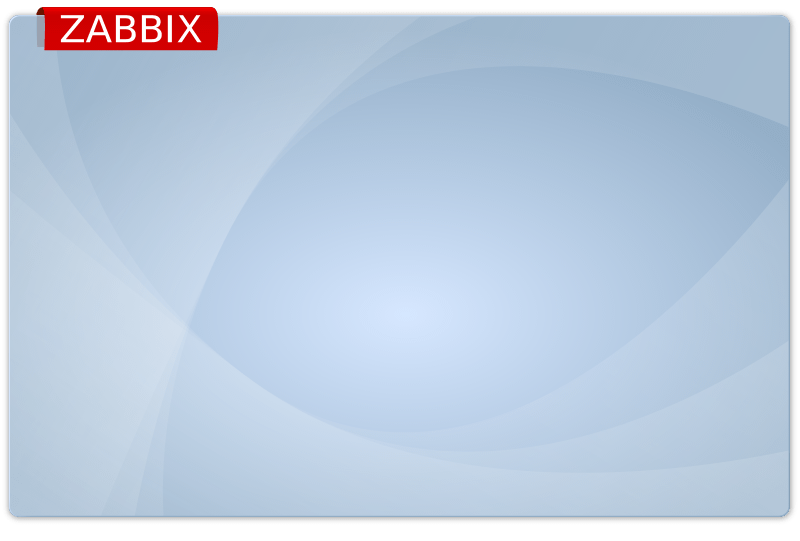
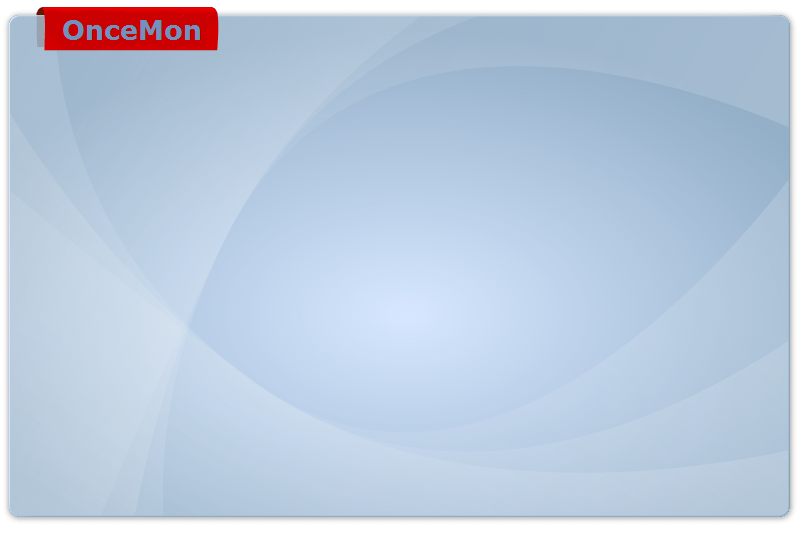
Replace the setup pic and login pic; Replace the www.zabbix.com; next will complete the code internationalization

Changed region(s): [[0.0625, 0.0296, 0.25, 0.0887]]

diff --git a/include/page_header.php b/include/page_header.php
@@ -200,9 +200,9 @@ if (defined('ZBX_PAGE_NO_HEADER')) {
 }
 
 if (!defined('ZBX_PAGE_NO_MENU')) {
-	$help = new CLink(_('Help'), 'http://www.zabbix.com/documentation/', 'small_font', null, 'nosid');
+	$help = new CLink(_('Help'), 'http://www.iscas.ac.cn/', 'small_font', null, 'nosid');
 	$help->setTarget('_blank');
-	$support = new CLink(_('Get support'), 'http://www.zabbix.com/support.php', 'small_font', null, 'nosid');
+	$support = new CLink(_('Get support'), 'http://www.iscas.ac.cn/', 'small_font', null, 'nosid');
 	$support->setTarget('_blank');
 
 	$printview = new CLink(_('Print'), '', 'small_font print-link', null, 'nosid');
@@ -239,7 +239,7 @@ if (!defined('ZBX_PAGE_NO_MENU')) {
 		array_push($page_header_r_col, $logout);
 	}
 
-	$logo = new CLink(new CDiv(SPACE, 'zabbix_logo'), 'http://www.zabbix.com/', 'image', null, 'nosid');
+	$logo = new CLink(new CDiv(SPACE, 'zabbix_logo'), 'http://www.iscas.ac.cn/', 'image', null, 'nosid');
 	$logo->setTarget('_blank');
 
 	$top_page_row = array(

diff --git a/include/classes/items/CHelpItems.php b/include/classes/items/CHelpItems.php
@@ -174,7 +174,7 @@ class CHelpItems {
 				),
 				array(
 					'key' => 'system.hostname[<type>]',
-					'description' => _('Returns hostname (or NetBIOS name (by default) on Windows). String value. Example of returned value: www.zabbix.com')
+					'description' => _('Returns hostname (or NetBIOS name (by default) on Windows). String value. Example of returned value: www.iscas.ac.cn')
 				),
 				array(
 					'key' => 'system.hw.chassis[<info>]',
@@ -436,7 +436,7 @@ class CHelpItems {
 				),
 				array(
 					'key' => 'system.hostname[<type>]',
-					'description' => _('Returns hostname (or NetBIOS name (by default) on Windows). String value. Example of returned value: www.zabbix.com')
+					'description' => _('Returns hostname (or NetBIOS name (by default) on Windows). String value. Example of returned value: www.iscas.ac.cn')
 				),
 				array(
 					'key' => 'system.hw.chassis[<info>]',

diff --git a/include/defines.inc.php b/include/defines.inc.php
@@ -18,12 +18,12 @@
 ** Foundation, Inc., 51 Franklin Street, Fifth Floor, Boston, MA  02110-1301, USA.
 **/
 
-define('ZABBIX_VERSION',     '2.2.8');
-define('ZABBIX_API_VERSION', '2.2.8');
+define('ZABBIX_VERSION',     '0.0.1');
+define('ZABBIX_API_VERSION', '0.0.1');
 define('ZABBIX_DB_VERSION',	 2020000);
 
-define('ZABBIX_COPYRIGHT_FROM', '2001');
-define('ZABBIX_COPYRIGHT_TO',   '2014');
+define('ZABBIX_COPYRIGHT_FROM', '2014');
+define('ZABBIX_COPYRIGHT_TO',   '2015');
 
 define('ZBX_LOGIN_ATTEMPTS',	5);
 define('ZBX_LOGIN_BLOCK',		30); // sec
@@ -904,7 +904,7 @@ define('THEME_DEFAULT', 'default');
 // the default theme
 define('ZBX_DEFAULT_THEME', 'originalblue');
 
-define('ZABBIX_HOMEPAGE', 'http://www.zabbix.com');
+define('ZABBIX_HOMEPAGE', 'http://www.iscas.ac.cn');
 
 // non translatable date formats
 define('TIMESTAMP_FORMAT', 'YmdHis');

diff --git a/include/views/general.browserwarning.php b/include/views/general.browserwarning.php
@@ -57,7 +57,7 @@
 						New browsers usually come with support for new technologies, increasing web page speed, better privacy settings and so on. They also resolve security and functional issues.
 					</div>
 					<div style="position: absolute; top: 420px; left: 23px;" class="browserwarningCopyright">
-						<a href="http://www.zabbix.com"><?php echo _s('Zabbix %1$s Copyright %2$s-%3$s by Zabbix SIA',
+						<a href="http://www.iscas.ac.cn"><?php echo _s('Zabbix %1$s Copyright %2$s-%3$s by Zabbix SIA',
 							ZABBIX_VERSION, ZABBIX_COPYRIGHT_FROM, ZABBIX_COPYRIGHT_TO); ?></a>
 					</div>
 					<div style="position: absolute; top: 400px; left: 400px;" class="browserwarningLink"><a href="index.php" onClick="javascript: document.cookie='browserwarning_ignore=yes';">Continue despite this warning</a> &raquo;</div>

diff --git a/chart5.php b/chart5.php
@@ -194,7 +194,7 @@ imageText($im, 8, 0, $shiftX + 9, $sizeY + $shiftYup + 15 * 1 + 41, $black, _('O
 imagefilledrectangle($im, $shiftX, $sizeY + $shiftYup + 34 + 15 * 2, $shiftX + 5, $sizeY + $shiftYup + 30 + 9 + 15 * 2, $darkred);
 imagerectangle($im, $shiftX, $sizeY + $shiftYup + 34 + 15 * 2, $shiftX + 5, $sizeY + $shiftYup + 30 + 9 + 15 * 2, $black);
 imageText($im, 8, 0, $shiftX + 9, $sizeY + $shiftYup + 15 * 2 + 41, $black, _('PROBLEM').' (%)');
-imagestringup($im, 0, imagesx($im) - 10, imagesy($im) - 50, 'http://www.zabbix.com', $gray);
+imagestringup($im, 0, imagesx($im) - 10, imagesy($im) - 50, 'http://www.iscas.ac.cn', $gray);
 
 $str = sprintf('%0.2f', microtime(true) - $start_time);
 $str = _s('Generated in %s sec', $str);

diff --git a/include/setup.inc.php b/include/setup.inc.php
@@ -93,10 +93,10 @@ class CSetupWizard extends CForm {
 		$left = new CDiv(null, 'left');
 		$left->addItem(new CDiv($this->getList(), 'left_menu'));
 
-		$link1 = new CLink('www.zabbix.com', 'http://www.zabbix.com/', null, null, true);
+		$link1 = new CLink('www.iscas.ac.cn', 'http://www.iscas.ac.cn/', null, null, true);
 		$link1->setAttribute('target', '_blank');
 
-		$link2 = new CLink('GPL v2', 'http://www.zabbix.com/license.php', null, null, true);
+		$link2 = new CLink('GPL v2', 'http://www.iscas.ac.cn/', null, null, true);
 		$link2->setAttribute('target', '_blank');
 
 		$licence = new CDiv(array($link1, BR(), ' Licensed under ', $link2), 'setup_wizard_licence');

diff --git a/include/views/general.login.php b/include/views/general.login.php
@@ -35,9 +35,9 @@ require_once dirname(__FILE__).'/../page_header.php';
 			<div style="position: relative; color: #FFF; height: 100%;">
 				<!-- Help & Support -->
 				<div style="position: absolute; top: 0px; right: 10px;">
-					<a class="highlight" href="http://www.zabbix.com/documentation"><?php echo _('Help'); ?></a>
+					<a class="highlight" href="http://www.iscas.ac.cn/"><?php echo _('Help'); ?></a>
 					&nbsp;|&nbsp;
-					<a class="highlight" href="https://support.zabbix.com"><?php echo _('Support'); ?></a>
+					<a class="highlight" href="https://www.iscas.ac.cn"><?php echo _('Support'); ?></a>
 				</div>
 
 				<!-- Copyright -->

diff --git a/chart4.php b/chart4.php
@@ -162,7 +162,7 @@ imagefilledrectangle($im, $shiftX, $sizeY + $shiftYup + 39 + 15 * 1, $shiftX + 5
 imagerectangle($im, $shiftX, $sizeY + $shiftYup + 39 + 15 * 1, $shiftX + 5, $sizeY + $shiftYup + 15 + 9 + 35 * 1, $black);
 imageText($im, 8, 0, $shiftX + 9, $sizeY + $shiftYup + 15 * 1 + 45, $black, _('Problems').' (%)');
 
-imagestringup($im, 0, imagesx($im) - 10, imagesy($im) - 50, 'http://www.zabbix.com', $gray);
+imagestringup($im, 0, imagesx($im) - 10, imagesy($im) - 50, 'http://www.iscas.ac.cn', $gray);
 
 $str = sprintf('%0.2f', microtime(true) - $start_time);
 $str = _s('Generated in %s sec', $str);

diff --git a/include/classes/class.chelp.php b/include/classes/class.chelp.php
@@ -23,8 +23,8 @@
 class CHelp extends CIcon {
 
 	public function __construct() {
-		parent::__construct('http://www.zabbix.com/documentation', 'iconhelp');
-		parent::onClick('window.open("http://www.zabbix.com/documentation/");');
+		parent::__construct('http://www.iscas.ac.cn/', 'iconhelp');
+		parent::onClick('window.open("http://www.iscas.ac.cn/");');
 	}
 }
 ?>

diff --git a/include/page_footer.php b/include/page_footer.php
@@ -100,7 +100,7 @@ if ($page['type'] == PAGE_TYPE_HTML) {
 
 		$table->addRow(array(
 			new CCol(new CLink(
-				_s('Zabbix %1$s Copyright %2$s-%3$s by Zabbix SIA',
+				_s('OnceMon %1$s Copyright %2$s-%3$s by Zabbix SIA',
 					ZABBIX_VERSION, ZABBIX_COPYRIGHT_FROM, ZABBIX_COPYRIGHT_TO),
 				ZABBIX_HOMEPAGE, 'highlight', null, true), 'center'),
 			new CCol(array(

diff --git a/include/classes/graphdraw/CGraphDraw.php b/include/classes/graphdraw/CGraphDraw.php
@@ -264,7 +264,7 @@ abstract class CGraphDraw {
 		imagestringup($this->im, 0,
 			$this->fullSizeX - 10,
 			$this->fullSizeY - 50,
-			'http://www.zabbix.com',
+			'http://www.iscas.ac.cn',
 			$this->getColor('Gray')
 		);
 	}
